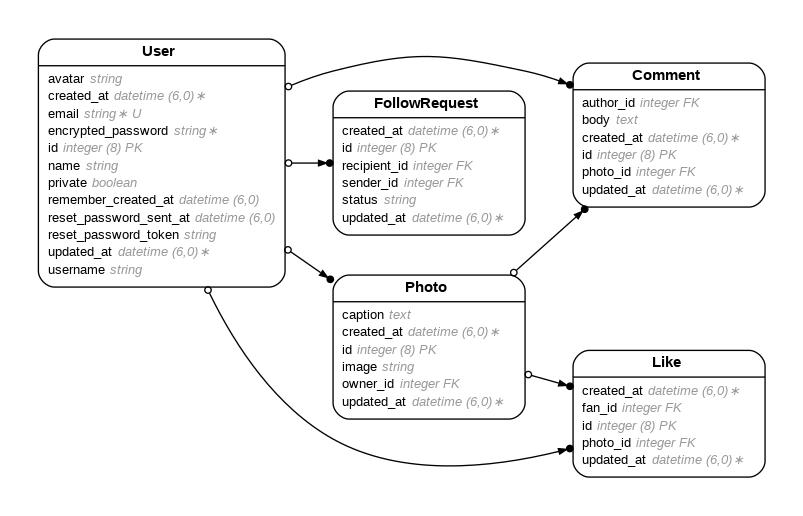
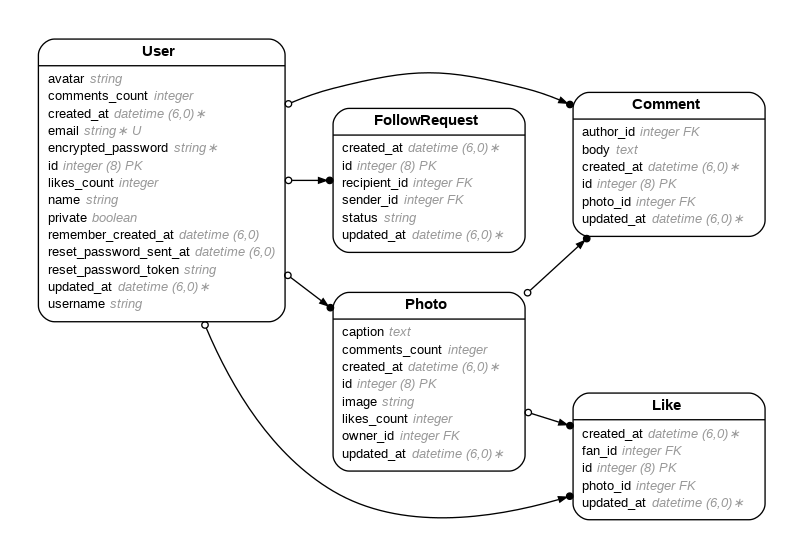
LETSGo

Changed region(s): [[0.0311, 0.062, 0.9651, 0.9302], [0.3113, 0.7132, 0.3425, 0.7752], [0.2802, 0.6512, 0.3113, 0.7132]]

diff --git a/db/schema.rb b/db/schema.rb
@@ -10,7 +10,7 @@
 #
 # It's strongly recommended that you check this file into your version control system.
 
-ActiveRecord::Schema[7.1].define(version: 2025_05_12_031454) do
+ActiveRecord::Schema[7.1].define(version: 2025_05_12_035531) do
   # These are extensions that must be enabled in order to support this database
   enable_extension "plpgsql"
 
@@ -43,6 +43,8 @@ ActiveRecord::Schema[7.1].define(version: 2025_05_12_031454) do
     t.integer "owner_id"
     t.datetime "created_at", null: false
     t.datetime "updated_at", null: false
+    t.integer "likes_count"
+    t.integer "comments_count"
   end
 
   create_table "users", force: :cascade do |t|
@@ -57,6 +59,8 @@ ActiveRecord::Schema[7.1].define(version: 2025_05_12_031454) do
     t.string "avatar"
     t.datetime "created_at", null: false
     t.datetime "updated_at", null: false
+    t.integer "likes_count"
+    t.integer "comments_count"
     t.index ["email"], name: "index_users_on_email", unique: true
     t.index ["reset_password_token"], name: "index_users_on_reset_password_token", unique: true
   end

diff --git a/app/models/photo.rb b/app/models/photo.rb
@@ -2,12 +2,14 @@
 #
 # Table name: photos
 #
-#  id         :bigint           not null, primary key
-#  caption    :text
-#  image      :string
-#  created_at :datetime         not null
-#  updated_at :datetime         not null
-#  owner_id   :integer
+#  id             :bigint           not null, primary key
+#  caption        :text
+#  comments_count :integer
+#  image          :string
+#  likes_count    :integer
+#  created_at     :datetime         not null
+#  updated_at     :datetime         not null
+#  owner_id       :integer
 #
 class Photo < ApplicationRecord
   belongs_to :owner, required: true, class_name: "User", foreign_key: "owner_id"

diff --git a/app/models/user.rb b/app/models/user.rb
@@ -4,8 +4,10 @@
 #
 #  id                     :bigint           not null, primary key
 #  avatar                 :string
+#  comments_count         :integer
 #  email                  :string           default(""), not null
 #  encrypted_password     :string           default(""), not null
+#  likes_count            :integer
 #  name                   :string
 #  private                :boolean
 #  remember_created_at    :datetime

diff --git a/config/initializers/devise.rb b/config/initializers/devise.rb
@@ -266,7 +266,7 @@ Devise.setup do |config|
   # config.navigational_formats = ['*/*', :html, :turbo_stream]
 
   # The default HTTP method used to sign out a resource. Default is :delete.
-  config.sign_out_via = :delete
+  config.sign_out_via = :get
 
   # ==> OmniAuth
   # Add a new OmniAuth provider. Check the wiki for more information on setting

diff --git a/app/controllers/users_controller.rb b/app/controllers/users_controller.rb
@@ -2,7 +2,7 @@ class UsersController < ApplicationController
   def index
     matching_users = User.all
 
-    @list_of_user = matching_users.order({ :created_at => :desc })
+    @list_of_users = matching_users.order({ :created_at => :desc })
 
     render({ :template => "users/index" })
   end

diff --git a/config/routes.rb b/config/routes.rb
@@ -3,7 +3,8 @@ Rails.application.routes.draw do
   # Define your application routes per the DSL in https://guides.rubyonrails.org/routing.html
 
   # Defines the root path route ("/")
-  root  to: "users#index"
+  root "users#index"
+
   # Routes for the Like resource:
 
   # CREATE

diff --git a/db/migrate/20250512035531_add_comments_count_to_photo.rb b/db/migrate/20250512035531_add_comments_count_to_photo.rb
@@ -1,0 +1,5 @@
+class AddCommentsCountToPhoto < ActiveRecord::Migration[7.1]
+  def change
+    add_column :photos, :comments_count, :integer
+  end
+end

diff --git a/db/migrate/20250512035349_add_comments_count_to_user.rb b/db/migrate/20250512035349_add_comments_count_to_user.rb
@@ -1,0 +1,5 @@
+class AddCommentsCountToUser < ActiveRecord::Migration[7.1]
+  def change
+    add_column :users, :comments_count, :integer
+  end
+end

diff --git a/db/migrate/20250512035513_add_likes_count_to_photo.rb b/db/migrate/20250512035513_add_likes_count_to_photo.rb
@@ -1,0 +1,5 @@
+class AddLikesCountToPhoto < ActiveRecord::Migration[7.1]
+  def change
+    add_column :photos, :likes_count, :integer
+  end
+end

diff --git a/db/migrate/20250512035327_add_likes_count_to_user.rb b/db/migrate/20250512035327_add_likes_count_to_user.rb
@@ -1,0 +1,5 @@
+class AddLikesCountToUser < ActiveRecord::Migration[7.1]
+  def change
+    add_column :users, :likes_count, :integer
+  end
+end
